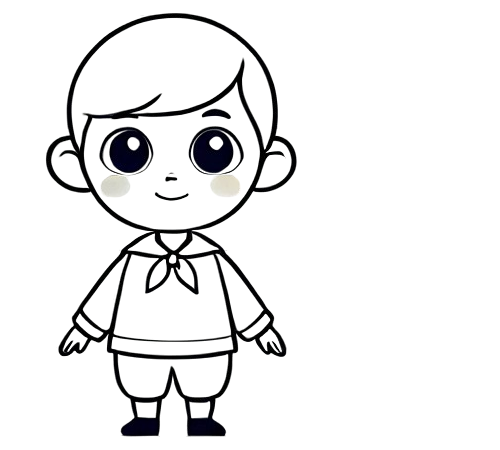
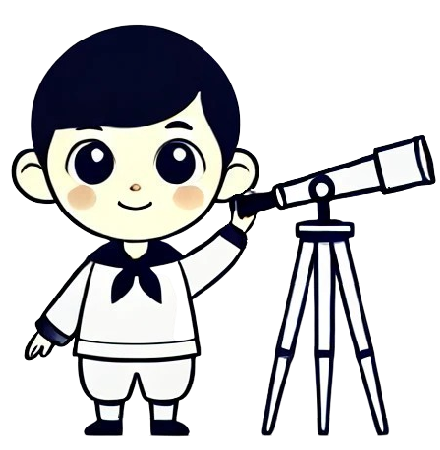
subjectChoice character update

diff --git a/src/components/SubjectChoice.js b/src/components/SubjectChoice.js
@@ -14,29 +14,25 @@ const SubjectChoice = () => {
         <ul className= "subject-choice">
           <li>
             <a href="/lessons/subject/Maths" class="mathematiques">
-              <img src="/images/perso maths.png" alt="Mathematiques" />
-              <p>Mathématiques</p>
+              <img src="/images/mathsGuy.png" alt="Mathematiques" />
             </a>
           </li>
 
           <li> 
             <a href="/lessons/subject/Français" className='french'>
               <img src="/images/frenchGirl.png" alt="French" />
-              <p>Français</p>
             </a>  
           </li>
 
           <li> 
             <a href="/lessons/subject/Histoire" className='history-geo'>
               <img src="/images/historyGuy.png" alt="History-geo" />
-              <p>Histoire-Géographie</p>
             </a>  
           </li>
 
           <li> 
             <a href="/lessons/subject/Anglais" className='english'>
               <img src="/images/englishGuy.png" alt="English" />
-              <p>Anglais</p>
             </a>  
           </li>
         </ul>
